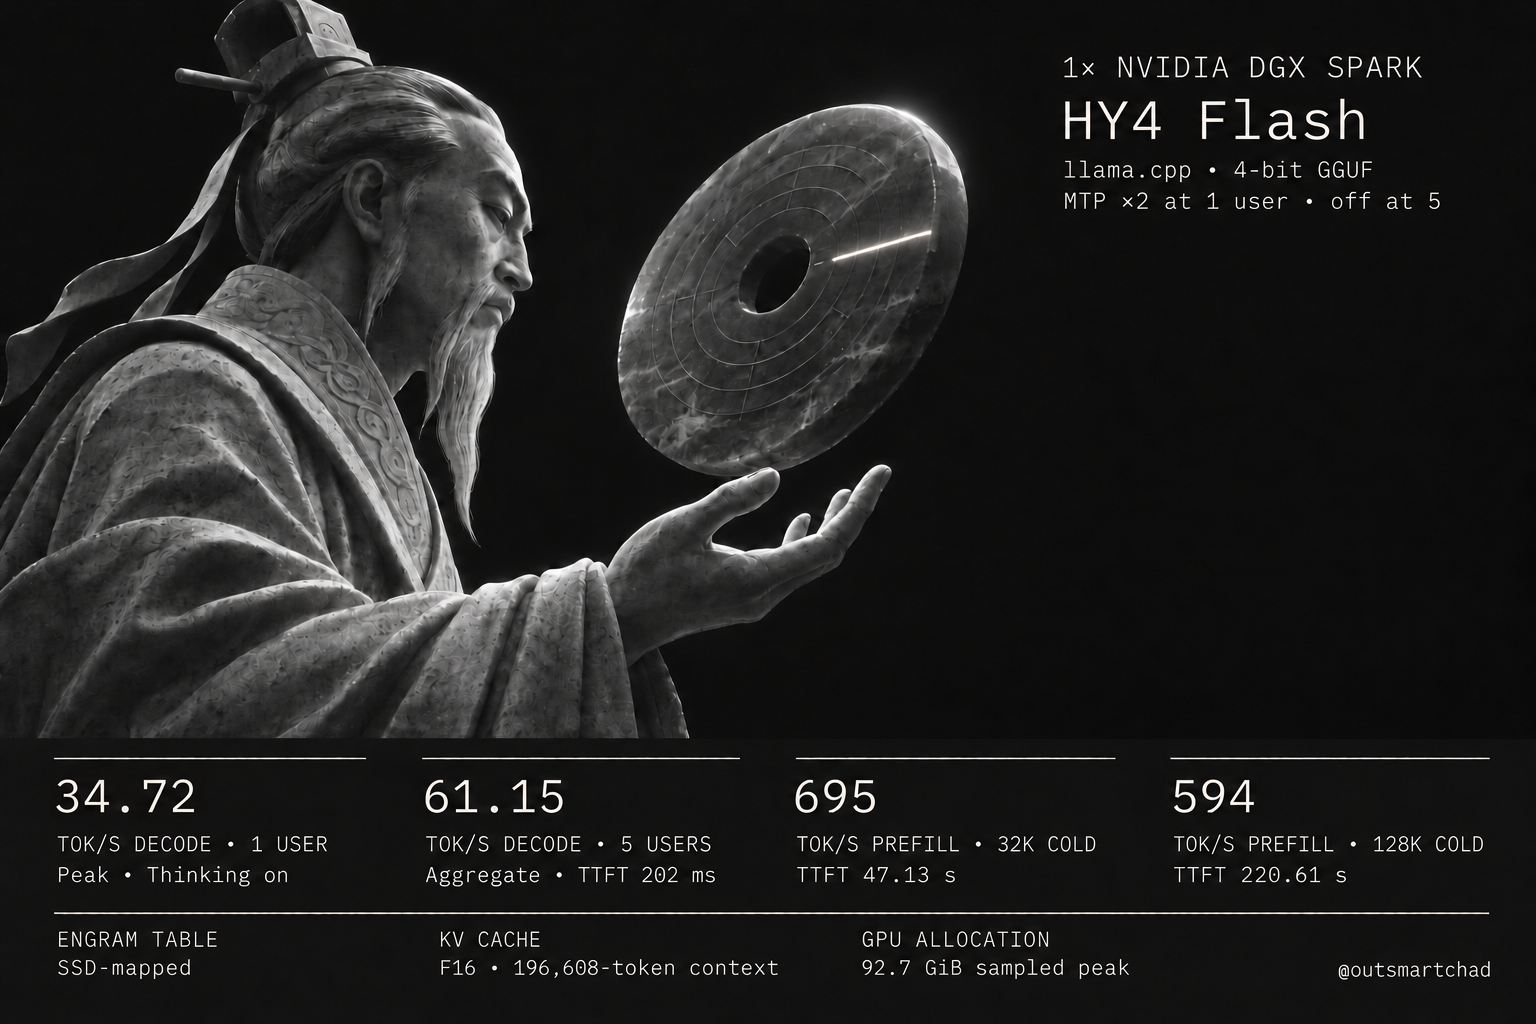
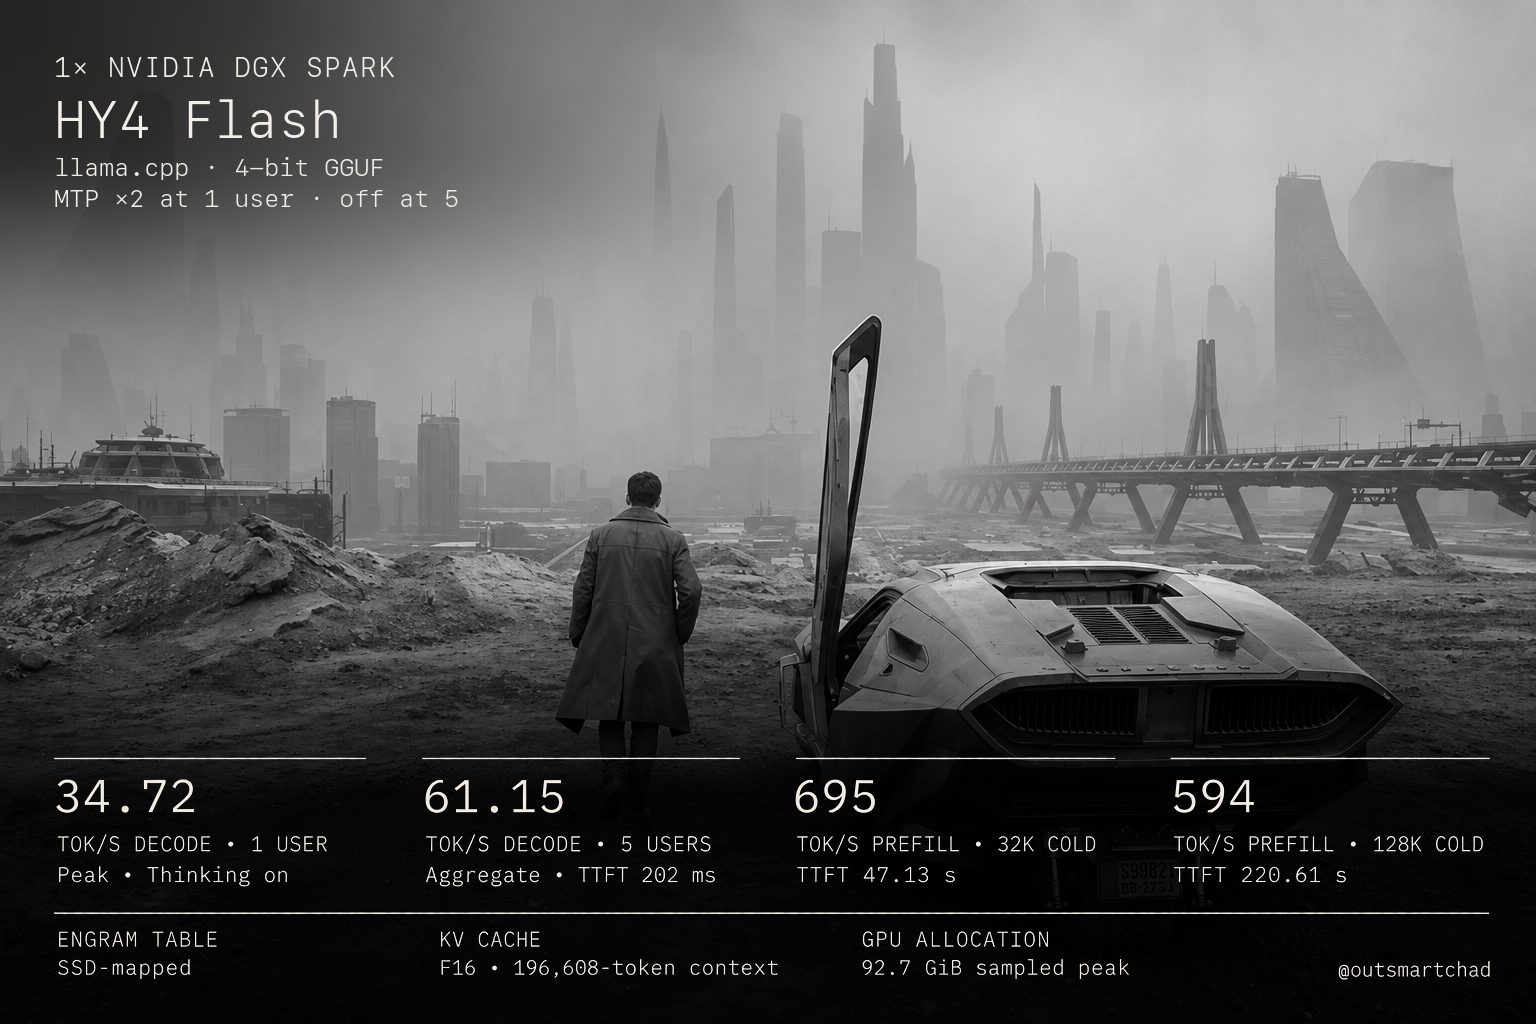
Use the full-bleed HY4 Flash benchmark card

diff --git a/README.md b/README.md
@@ -1,6 +1,6 @@
 # HY4 Flash on one DGX Spark
 
-![HY4 Flash on one DGX Spark. Thinking-on prose decode reached 34.72 tok/s at one user with probabilistic MTP ×2 and 61.15 tok/s aggregate at five users with MTP off. The card shows 695 tok/s at 32K and 594 tok/s at 128K from the earlier MTP ×2 cold-prefill run.](docs/assets/hy4-flash-benchmark.png)
+![HY4 Flash on one DGX Spark over a monochrome cityscape. Thinking-on prose decode reached 34.72 tok/s at one user with probabilistic MTP ×2 and 61.15 tok/s aggregate at five users with MTP off. The card shows 695 tok/s at 32K and 594 tok/s at 128K from the earlier MTP ×2 cold-prefill run.](docs/assets/hy4-flash-benchmark.png)
 
 Tencent's HY4 Flash, served with AngelSlim's Spark CUDA patch for llama.cpp and the Spark-4Bit-Fast GGUF. The **148.65 GiB** checkpoint fits this deployment because the largest table is memory-mapped from SSD. The patched engine reads selected Engram rows on the CPU and runs the main model on the GB10. [Model architecture](docs/how-it-works.md)
 
